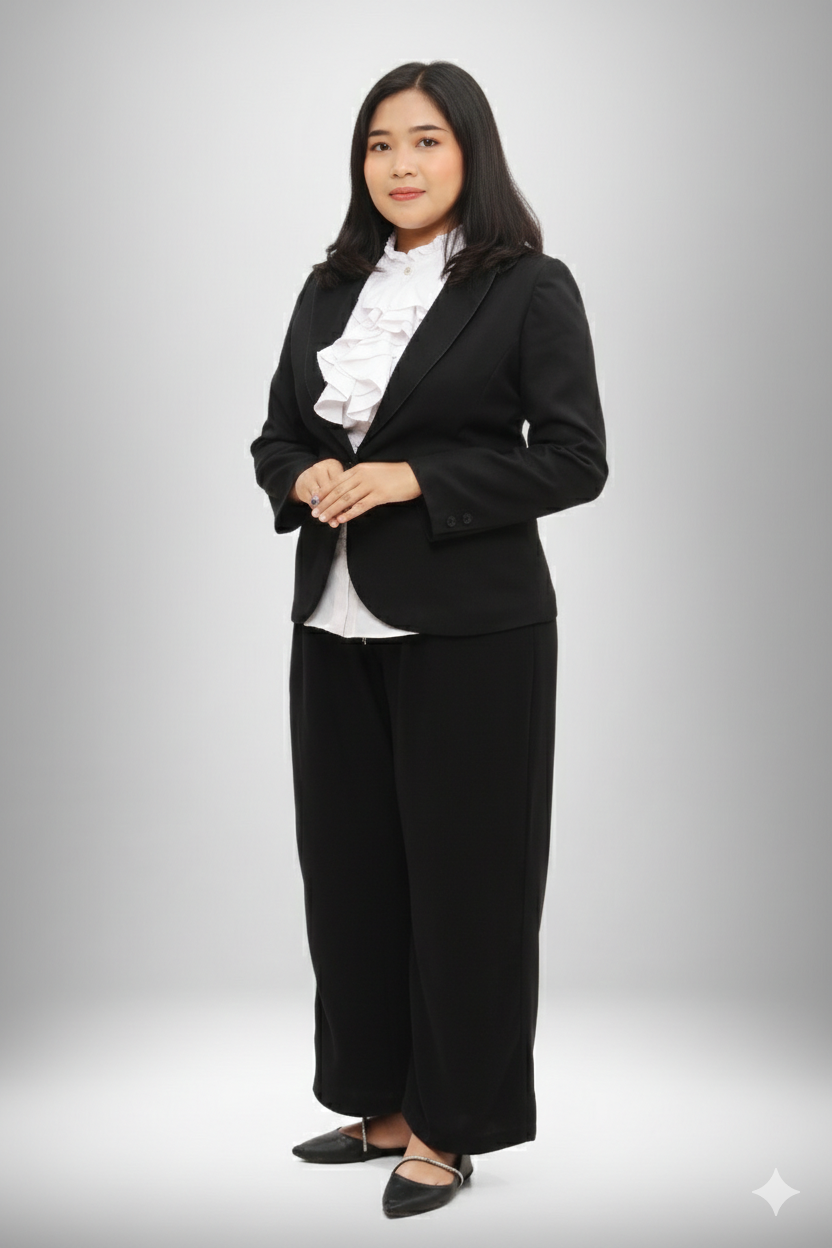
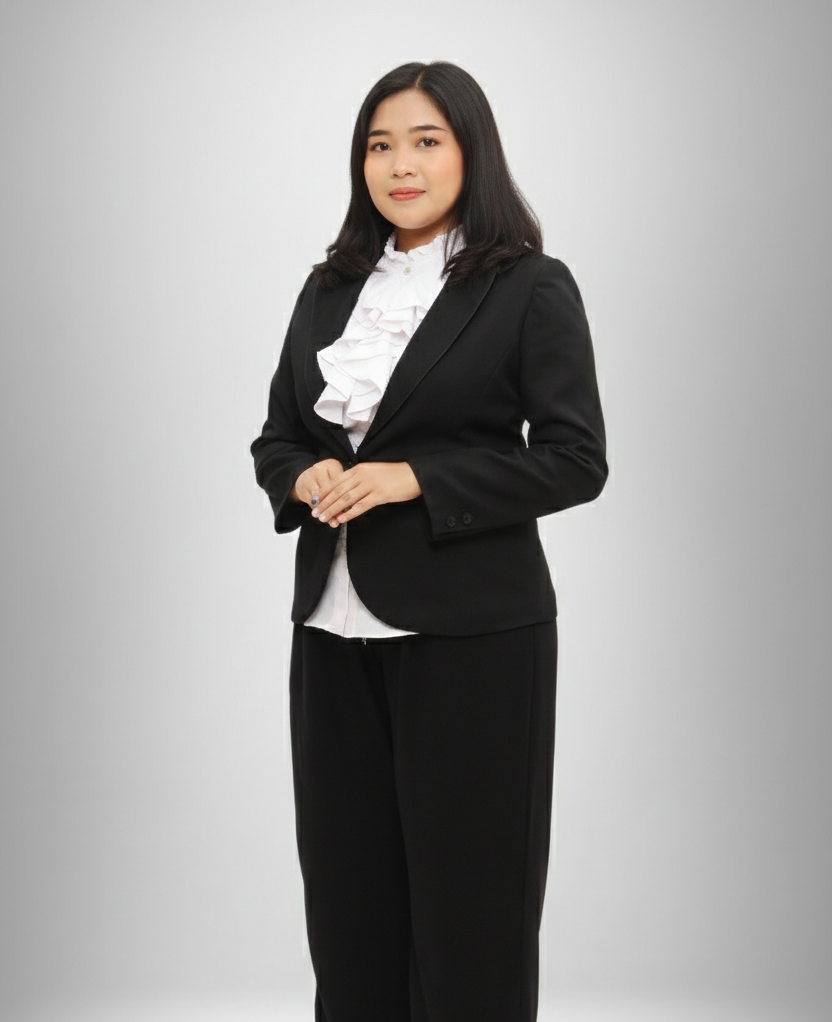
update image aboutus

Changed region(s): [[0.0, 0.0303, 1.0, 1.0], [0.625, 0.3337, 0.6562, 0.364]]

diff --git a/components/features/about-us/TeamSection.tsx b/components/features/about-us/TeamSection.tsx
@@ -16,7 +16,7 @@ const teamMembers = [
       "Mengatur standar kualitas internal dengan pendekatan psikologi lingkungan demi menjamin kenyamanan dan ketenangan setiap pengguna jasa.",
   },
   {
-    imageSrc: "/assets/about-us/Famila.jpg",
+    imageSrc: "/assets/about-us/Famila.png",
     name: "Famila",
     role: "Chief Operating Officier",
     experience:
